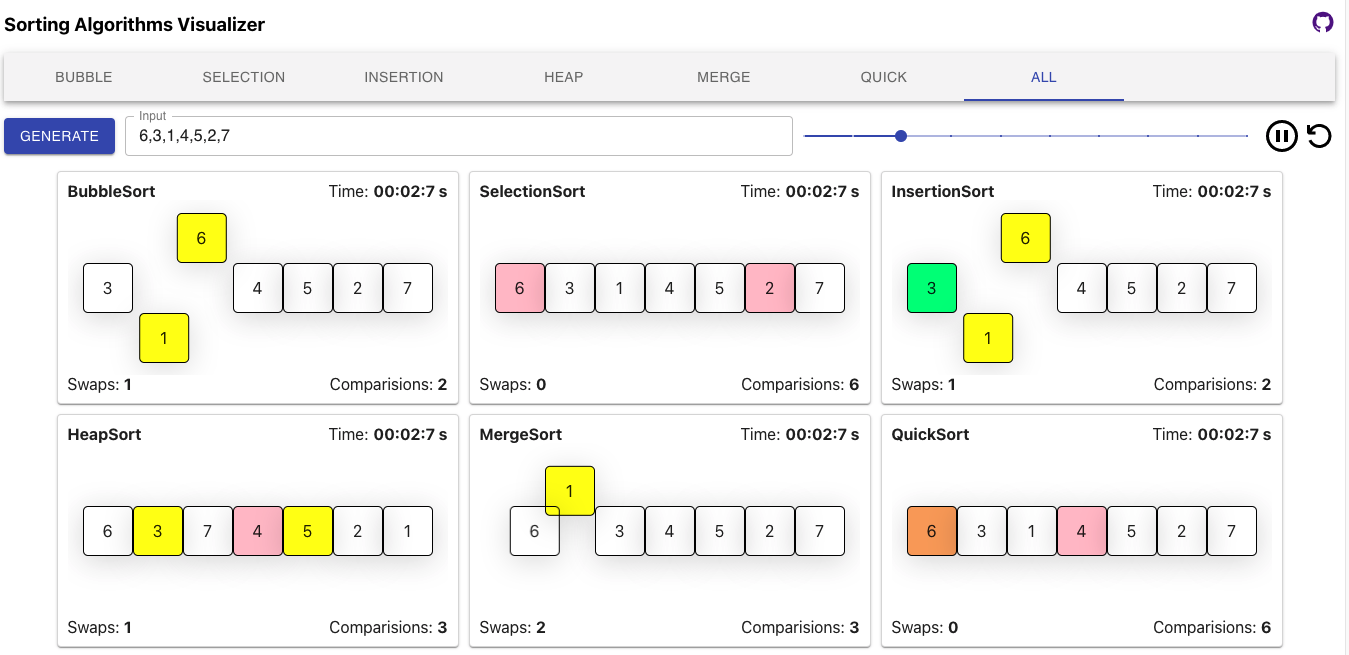
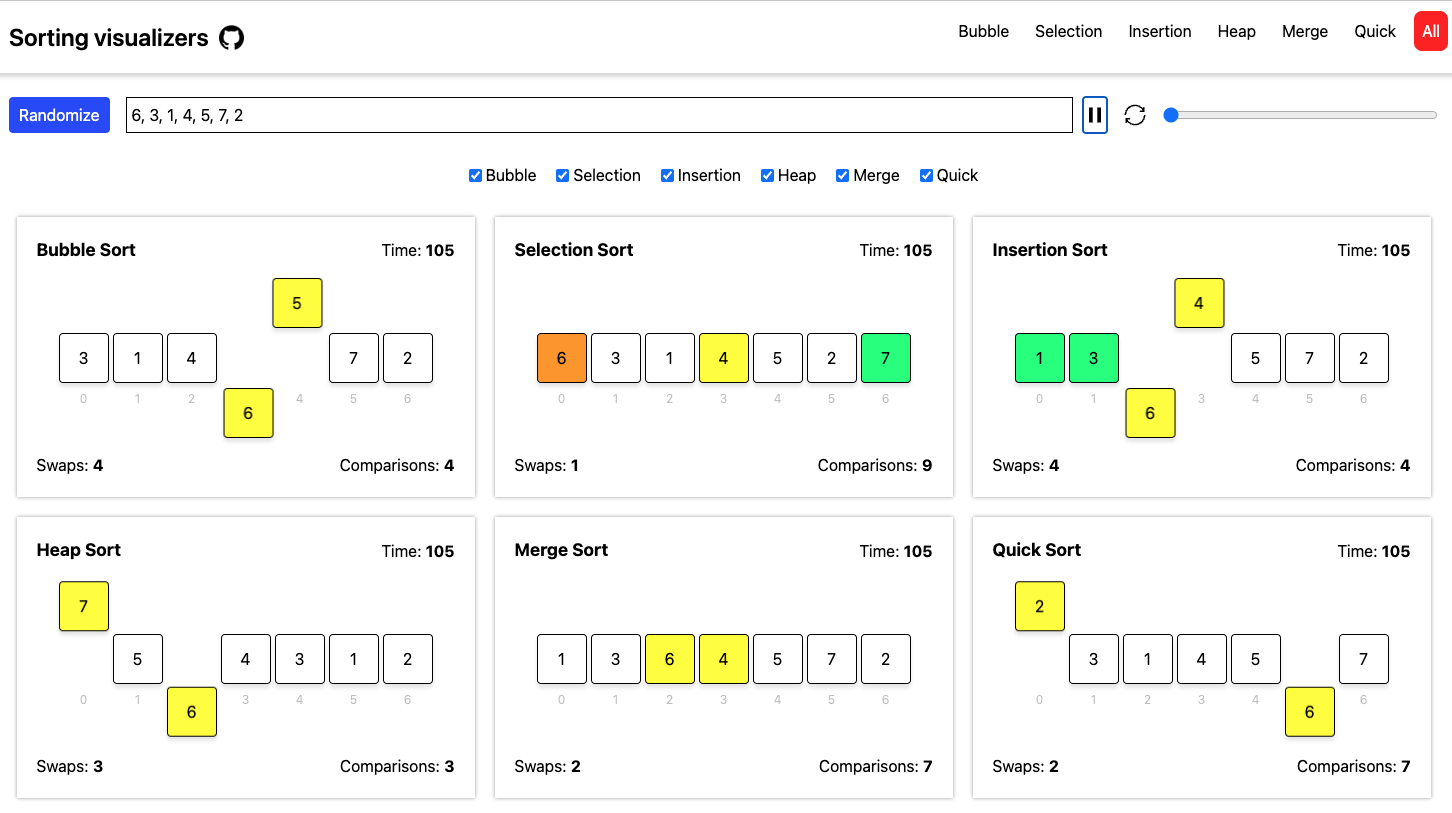
Redux persist setup

diff --git a/src/store/store.ts b/src/store/store.ts
@@ -1,11 +1,35 @@
+import {
+  FLUSH,
+  PAUSE,
+  PERSIST,
+  PURGE,
+  REGISTER,
+  REHYDRATE,
+  persistReducer,
+  persistStore,
+} from "redux-persist";
+
 import { configureStore } from "@reduxjs/toolkit";
-import sortingVisualizerSlice from "@/apps/sorting-visualizer/store/sorting-visualizer.slice";
+import sortingVisualizerReducer from "@/apps/sorting-visualizer/store/sorting-visualizer.slice";
+import storage from "redux-persist/lib/storage";
+
+const persistConfig = {
+  key: "sorting-visualizer",
+  storage,
+};
 
 export const store = configureStore({
   reducer: {
-    sortViz: sortingVisualizerSlice,
+    sortViz: persistReducer(persistConfig, sortingVisualizerReducer),
   },
+  middleware: (getDefaultMiddleware) =>
+    getDefaultMiddleware({
+      serializableCheck: {
+        ignoredActions: [FLUSH, REHYDRATE, PAUSE, PERSIST, PURGE, REGISTER],
+      },
+    }),
 });
 
 export type RootState = ReturnType<typeof store.getState>;
 export type AppDispatch = typeof store.dispatch;
+export const persistor = persistStore(store);

diff --git a/src/main.tsx b/src/main.tsx
@@ -1,13 +1,14 @@
 import "./index.css";
 
 import { RouterProvider, createHashRouter } from "react-router-dom";
+import { persistor, store } from "./store/store";
 
 import Home from "./apps/sorting-visualizer/pages/algorithm.page";
+import { PersistGate } from "redux-persist/integration/react";
 import { Provider } from "react-redux";
 import React from "react";
 import ReactDOM from "react-dom/client";
 import { sortingVisualizerRoutes } from "./apps/sorting-visualizer/routes";
-import { store } from "./store/store";
 
 const router = createHashRouter([
   ...sortingVisualizerRoutes,
@@ -20,7 +21,9 @@ const router = createHashRouter([
 ReactDOM.createRoot(document.getElementById("root") as HTMLElement).render(
   <React.StrictMode>
     <Provider store={store}>
-      <RouterProvider router={router} />
+      <PersistGate loading={null} persistor={persistor}>
+        <RouterProvider router={router} />
+      </PersistGate>
     </Provider>
   </React.StrictMode>
 );

diff --git a/src/apps/sorting-visualizer/components/navbar/navbar.tsx b/src/apps/sorting-visualizer/components/navbar/navbar.tsx
@@ -8,7 +8,19 @@ function Navbar({ menuItems }: NavbarProps) {
 
   return (
     <nav className={classes.navbar}>
-      <h1>Sorting visualizer</h1>
+      <h1>
+        Sorting visualizers
+        <a
+          href="https://github.com/sadanandpai/sorting-visualizer"
+          target="blank"
+        >
+          <img
+            src="https://cdn-icons-png.flaticon.com/512/25/25231.png"
+            alt="github repo"
+            className="github"
+          />
+        </a>
+      </h1>
 
       <button onClick={() => setToggle(!toggle)}>
         <img src="/ham.svg" alt="logo" />
@@ -20,7 +32,7 @@ function Navbar({ menuItems }: NavbarProps) {
             <NavLink
               to={`/sorting-visualizer/${item}`}
               className={({ isActive }) => (isActive ? classes.active : "")}
-              onClick={() => setToggle(!toggle)}
+              onClick={() => setToggle(false)}
             >
               {item}
             </NavLink>

diff --git a/src/apps/sorting-visualizer/components/navbar/navbar.module.scss b/src/apps/sorting-visualizer/components/navbar/navbar.module.scss
@@ -5,11 +5,18 @@
   padding: 12px 20px;
   position: relative;
   box-shadow: 0 4px 4px rgba(0, 0, 0, 0.15);
-  margin-bottom: 1rem;
+  margin-bottom: 24px;
 
   h1 {
     font-size: 1.5rem;
     font-weight: 600;
+
+    img {
+      display: inline-block;
+      vertical-align: text-top;
+      margin-left: 10px;
+      margin-top: 2px;
+    }
   }
 
   ul {
@@ -17,10 +24,12 @@
     list-style: none;
     gap: 10px;
     position: absolute;
-    top: 60px;
+    top: 65px;
     width: 100%;
     left: 0;
     box-shadow: 0 4px 4px rgba(0, 0, 0, 0.15);
+    padding-bottom: 12px;
+    background-color: white;
 
     &[data-toggle="false"] {
       display: none;
@@ -56,7 +65,7 @@
   }
 }
 
-@media screen and (min-width: 768px) {
+@media screen and (width >= 910px) {
   .navbar.navbar {
     padding: 10px 10px 10px 20px;
 
@@ -71,7 +80,7 @@
       }
     }
 
-    img {
+    button {
       display: none;
     }
   }

diff --git a/src/apps/sorting-visualizer/sorting-algorithms/merge.ts b/src/apps/sorting-visualizer/sorting-algorithms/merge.ts
@@ -1,6 +1,7 @@
 import {
   highlight,
   move,
+  sort,
 } from "@/apps/sorting-visualizer/helpers/algorithm-helpers";
 
 import { SortAsyncGenerator } from "@/apps/sorting-visualizer/models/types";
@@ -44,7 +45,7 @@ async function* merge(
       iMove++;
 
       if (isFinal) {
-        yield { type: "sort", position: left };
+        yield* sort(left);
       }
     }
 
@@ -59,7 +60,7 @@ async function* merge(
       jMove++;
 
       if (isFinal) {
-        yield { type: "sort", position: left };
+        yield* sort(left);
       }
     }
   }
@@ -68,7 +69,7 @@ async function* merge(
     yield* highlight(k);
 
     if (isFinal) {
-      yield { type: "sort", position: k };
+      yield* sort(k);
     }
   }
 
@@ -76,7 +77,7 @@ async function* merge(
     yield* highlight(k);
 
     if (isFinal) {
-      yield { type: "sort", position: k };
+      yield* sort(k);
     }
   }
 }

diff --git a/src/apps/sorting-visualizer/layouts/all-algorithm.layout.tsx b/src/apps/sorting-visualizer/layouts/all-algorithm.layout.tsx
@@ -2,7 +2,7 @@ import { useAppDispatch, useAppSelector } from "../../../store/hooks";
 
 import AlgoSelection from "../components/controller/algo-selection";
 import MainLayout from "./main.layout";
-import Visualiser from "../components/visualizer/visualizer";
+import Visualizer from "../components/visualizer/visualizer";
 import { algoList } from "../sorting-algorithms/algo-list";
 import classes from "./layout.module.scss";
 import { setIsPlaying } from "../store/sorting-visualizer.slice";
@@ -32,7 +32,7 @@ function AllAlgorithmLayout() {
 
       <div className={classes.allAlgos}>
         {selectedAlgos.map((algo) => (
-          <Visualiser
+          <Visualizer
             key={array.toString() + reset + algo.name}
             array={array}
             algoName={algo.name}

diff --git a/src/apps/sorting-visualizer/components/controller/execution.tsx b/src/apps/sorting-visualizer/components/controller/execution.tsx
@@ -40,6 +40,7 @@ function Execution() {
         <img
           src={isPlaying ? "/pause.svg" : "/play.svg"}
           alt={isPlaying ? "Pause" : "Play"}
+          title={isPlaying ? "Pause" : "Play"}
           height={24}
           width={24}
         />
@@ -48,6 +49,7 @@ function Execution() {
       <button
         onClick={() => dispatch(setReset())}
         disabled={array.length === 0}
+        title={"Reset"}
       >
         <img src="/reset.svg" height={24} width={24} />
       </button>
@@ -58,6 +60,7 @@ function Execution() {
         max={10}
         value={speed}
         step={1}
+        title="Animation speed"
         onChange={(e) => dispatch(setSpeed(e.target.valueAsNumber))}
       />
     </div>

diff --git a/src/apps/sorting-visualizer/layouts/single-algorithm.layout.tsx b/src/apps/sorting-visualizer/layouts/single-algorithm.layout.tsx
@@ -1,7 +1,7 @@
 import { useAppDispatch, useAppSelector } from "../../../store/hooks";
 
 import MainLayout from "./main.layout";
-import Visualiser from "../components/visualizer/visualizer";
+import Visualizer from "../components/visualizer/visualizer";
 import { algoList } from "../sorting-algorithms/algo-list";
 import { setIsPlaying } from "../store/sorting-visualizer.slice";
 import useCompletion from "../hooks/use-completion.hook";
@@ -26,7 +26,7 @@ function SingleAlgorithmLayout() {
 
   return (
     <MainLayout>
-      <Visualiser
+      <Visualizer
         key={selectedAlgo.name + array.toString() + reset}
         array={array}
         algoName={selectedAlgo.name}

diff --git a/src/apps/sorting-visualizer/helpers/algorithm-helpers.ts b/src/apps/sorting-visualizer/helpers/algorithm-helpers.ts
@@ -28,13 +28,17 @@ export async function* highlight(...positions: number[]): SortAsyncGenerator {
   await resolveWhenPlaying;
 
   yield { type: "highlight", positions };
-  await delay(animationInterval / 2);
+  await delay(animationInterval / 4);
 
   await resolveWhenPlaying;
 }
 
 export async function* showPivot(position: number): SortAsyncGenerator {
   yield { type: "pivot", position };
+}
+
+export async function* sort(position: number): SortAsyncGenerator {
+  yield { type: "sort", position: position };
 }
 
 export async function* move(...positions: number[]): SortAsyncGenerator {

diff --git a/src/apps/sorting-visualizer/sorting-algorithms/heap.ts b/src/apps/sorting-visualizer/sorting-algorithms/heap.ts
@@ -1,6 +1,7 @@
 import {
   highlight,
   showPivot,
+  sort,
   swap,
 } from "@/apps/sorting-visualizer/helpers/algorithm-helpers";
 
@@ -14,12 +15,12 @@ export async function* heapSort(array: number[]): SortAsyncGenerator {
 
   for (let i = array.length - 1; i > 0; i--) {
     length--;
-    yield { type: "sort", position: length };
+    yield* sort(length);
     yield* swap(array, 0, i);
     yield* maxHeap(array, 0, length);
   }
 
-  yield { type: "sort", position: 0 };
+  yield* sort(0);
 }
 
 async function* maxHeap(

diff --git a/src/apps/sorting-visualizer/components/visualizer/visualizer.tsx b/src/apps/sorting-visualizer/components/visualizer/visualizer.tsx
@@ -6,7 +6,7 @@ import { VisualizerProps } from "@/apps/sorting-visualizer/models/interfaces";
 import classes from "./visualizer.module.scss";
 import useAlgo from "@/apps/sorting-visualizer/hooks/use-algo.hook";
 
-const Visualiser = memo(function Visualiser({
+const Visualizer = memo(function Visualizer({
   array,
   algoFn,
   algoName = "Bubble",
@@ -56,4 +56,4 @@ const Visualiser = memo(function Visualiser({
   );
 });
 
-export default Visualiser;
+export default Visualizer;

diff --git a/src/apps/sorting-visualizer/store/global.state.ts b/src/apps/sorting-visualizer/store/global.state.ts
@@ -1,7 +1,7 @@
 let resolver: () => void;
 export let resolveWhenPlaying: Promise<void>;
 export let isPlaying = false;
-export let animationInterval = 200;
+export let animationInterval = 1000;
 
 export const playSimulation = () => {
   if (isPlaying) {
@@ -28,7 +28,7 @@ export const setResolver = () => {
 };
 
 export const setAnimationInterval = (speed: number) => {
-  animationInterval = 1100 - speed * 100;
+  animationInterval = 2000 / speed;
 };
 
 setResolver();
